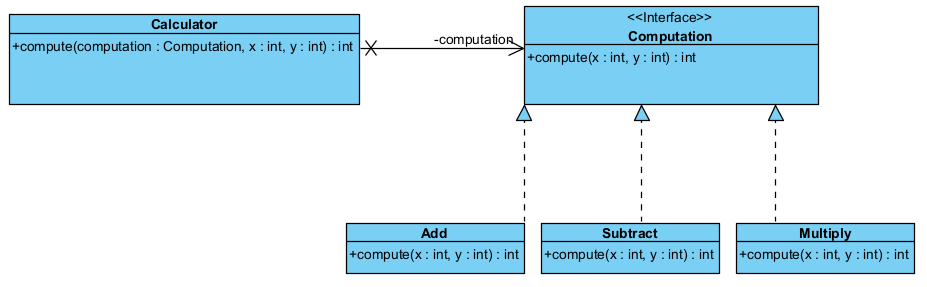
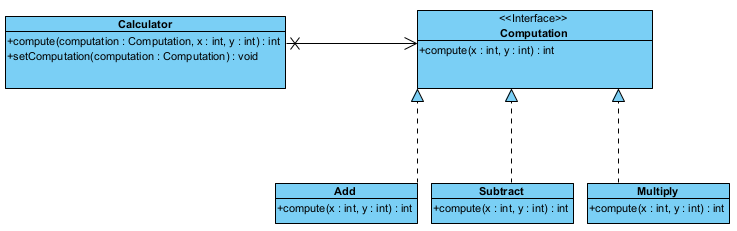
Herhalingsoefening dp OEF 7

Changed region(s): [[0.0, 0.0, 0.905, 0.4545], [0.3745, 0.7576, 0.9986, 0.9697]]

diff --git a/DesignPatterns.md b/DesignPatterns.md
@@ -1186,4 +1186,23 @@ public class main {
 ![](images/DP_oef7.png)
 
 #### Oplossing
-![](images/DP_oef7_opl.png)
+![DP_oef7_opl](images/DP_oef7_opl.png)
+
+```java
+public class Calculator {
+
+	private Computation computation;
+
+	public int compute(Computation computation, int x, int y) {
+		return computation.compute(x, y);
+	}
+}
+```
+```java 
+public class Add implements Computation {
+
+	public int compute(int x, int y) {
+		return x+y;
+	}
+}
+```
